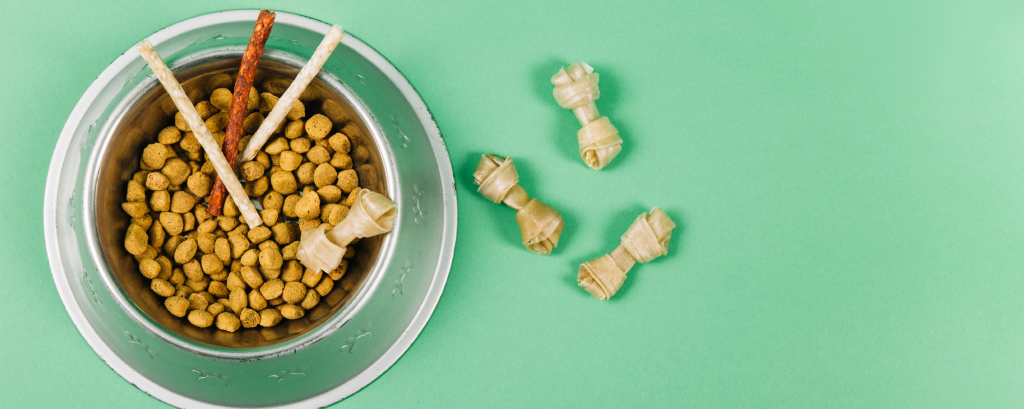
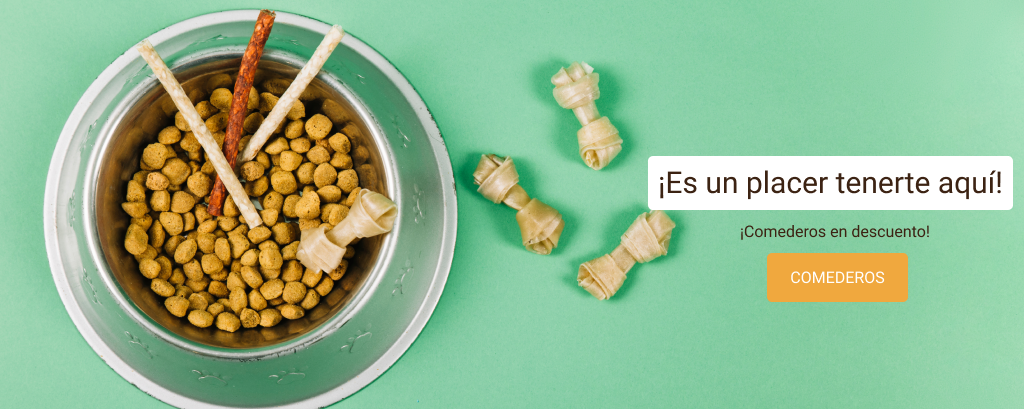
mejoras visuales

Changed region(s): [[0.625, 0.3814, 1.0, 0.5281], [0.75, 0.6161, 0.9062, 0.7628], [0.7188, 0.5575, 0.9062, 0.5868]]

diff --git a/index.html b/index.html
@@ -1,0 +1,84 @@
+<!DOCTYPE html>
+<html lang="es">
+<head>
+    <meta charset="UTF-8">
+    <meta http-equiv="X-UA-Compatible" content="IE=edge">
+    <meta name="viewport" content="width=device-width, initial-scale=1.0">
+    <title>FrontCat&Dog</title>
+</head>
+<body>
+    <header style="background:black; height:20px">
+        <div>
+            <span style="color: white; padding-left: 138px;">Grandes ofertas en comederos </span>
+            <span style="color: white;float: right;padding-right: 50px;">Arg</span>
+            <span style="color: white; float: right;padding-right: 20px;">Español</span>                   
+        </div>
+    </header>
+<main>
+        <div style="background: #F0A83E; padding-top: 30px; padding-bottom: 30px;padding-bottom: 40px; padding-left: 30px;">
+            <span style="color: #3C2313;font-family: Roboto; font-style: normal; font-weight: bold; font-size: 20px;"><img src="img/Cat.png">Front</span>
+            <span style="color: white; font-family: Roboto; font-style: normal; font-weight: bold; font-size: 20px; line-height: 23px;">Cat&Dog<img src='img/Dog.png'></span> 
+             <span style="color: white; float: right;padding-right: 40px;"><img src="img/huella2.png">Categorias</span>
+            <span style="color: white;float: right;padding-right: 30px;"><img src="img/huella2.png">Pets</span>
+            <span style="color: white;float: right;padding-right: 30px;"><img src="img/huella2.png">Nosotros</span>
+            <span style="color: white;float: right;padding-right: 30px;"><img src="img/huella2.png">Contactanos</span> 
+        </div>
+
+        <div align='center'>
+            <img src="img/banner.png" height="409">   
+       </div>
+    <br>
+         <section align='center'> 
+
+          <div ><img src="img/huella.png">
+            <h2 style="font-family: Roboto;font-style: normal;font-weight: bold;font-size: 40px;line-height: 47px">Productos Destacados</h2>
+                <nav> 
+                    <span>Comederos</span>
+                    <span>&nbsp;&nbsp;- &nbsp;&nbsp;</span>
+                    <span>Accesorios</span>
+                    <span>&nbsp;&nbsp;- &nbsp;&nbsp;</span>
+                    <span>Comida</span>
+                </nav>
+        <br>
+            <img src="img/Cards.png">
+        </section>
+
+    <section align='center'>
+        <br>
+        <p style="font-family: Roboto; font-style: normal; font-weight: bold; font-size: 25px; line-height: 29px;">Contactános</p>
+        <br>
+        <input placeholder="Nombre y Apellido" style="background: #3C2313; color: white;border-radius: 15px;width: 340px;height: 40px;";>
+         <br><br>
+        <input placeholder="Ingresa tu correo electronico" style="background: #3C2313; color: white;border-radius: 15px;width: 340px;height: 40px;"> 
+        <br> <br>
+        <input placeholder="Telefono" style="background: #3C2313; color: white;border-radius: 15px;width: 340px;height: 40px;">
+    </section>
+    <br>
+    <section align='center'>
+        <span><input type="button" value="Resetear" style="background: #8A8787; color:white;border-radius:15px;width: 110px;height: 34px;"></span>
+        <span><input type="button" value="Enviar" style="background: #F0A83E; color:white;border-radius:15px;width: 110px;height: 34px;"></span>
+    </section>
+    <br>
+    <div style="background: #F0A83E;color: white;  padding: 10px;height: 60px"> 
+        <div style="float:left;padding-left: 10px;padding-top: 10px;"><img src="img/enviarCorreo.png"></div>
+        <div style="float:left;padding-left: 20px;padding-top: 20px; font-family: Roboto; font-style: normal; font-weight: bold; font-size: 20px; "> Suscribete para más novedades</div>
+        <span style="padding-right: 30px; padding-top: 5px;float: right;"><input style="background:#3C2313;width: 90px; height: 34px;background: #3C2313; border-radius: 15px; color: white;"type="button" value='Suscribirme'></span>
+        <span style="float: right;padding-right: 30px;"><input style="background: #FFFFFF; border-radius: 15px; width: 271px; height: 40px;" placeholder="Ingresa tu correo electronico"></span>
+    </div>
+ 
+    <section style="background: #3C2313; color: white; padding: 20px 20px;">
+        <span style="float:right; padding-right:200px; padding-top: 130px;"><img src="img/Logo.png"></span>
+        <span><img src="img/iconoUbicacion.png"><span style="padding-left:20px;font-style: normal; font-weight: bold; font-size: 20px; line-height: 23px;">Localidad</p></span>
+    </span>
+      
+        <span><img src="img/Icono telefono.png"><span style="padding-left: 20px;font-style: normal; font-weight: bold; font-size: 20px; line-height: 23px;">  Telefono</p></span>
+    </span>
+        <span><img src="img/Icono correo.png"><span style="padding-left:20px; font-style: normal;font-weight: bold; font-size: 20px; line-height: 23px;">   Correo electronico</p></span>
+    </span>
+            
+    </section>
+</main>
+    <footer align='center' style="background: black; color: white;height:60px">Todos los derechos reservados Equipo 1</footer>
+</body>
+
+</html>
